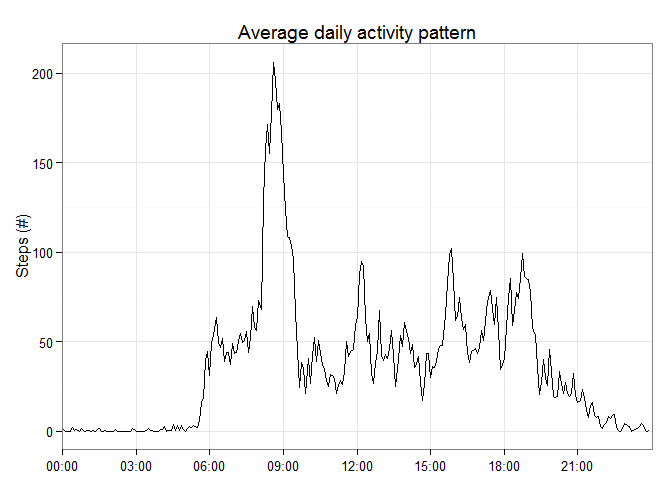
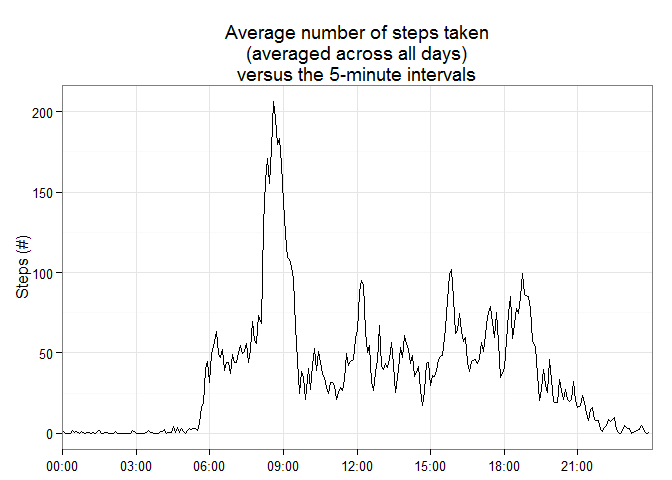
Modify caption for plots

diff --git a/PA1_template.html b/PA1_template.html
@@ -55,7 +55,7 @@ if (window.hljs && document.readyState && document.readyState === "complete") {
 
 <div id="reproducible-research-peer-assessment-1" class="section level1">
 <h1>Reproducible Research: Peer Assessment 1</h1>
-<p>By Renatas Narmontas<br />Generated: 2014-07-20 13:30:45<br />Version: R version 3.1.1 (2014-07-10)</p>
+<p>By Renatas Narmontas<br />Generated: 2014-07-20 19:21:20<br />Version: R version 3.1.1 (2014-07-10)</p>
 <div id="global-options" class="section level2">
 <h2>Global options</h2>
 <p>Loading required packages and setting global options.</p>
@@ -118,8 +118,12 @@ head(agg.data)</code></pre>
 <p><strong>Task</strong>:<br />For this part of the assignment, you can ignore the missing values in the dataset.<br />1. Make a histogram of the total number of steps taken each day<br />2. Calculate and report the mean and median total number of steps taken per day</p>
 <p><strong>Solution</strong>:</p>
 <p>Plotting histogram of the total number of steps taken each day. binwidth = every 1000 steps.</p>
-<pre class="r"><code>ggplot(agg.data, aes(x=steps)) + geom_histogram(binwidth=1000) + scale_y_discrete(breaks = seq(1,10)) + theme_bw()</code></pre>
[1 lines of base64/hex data omitted]
+<pre class="r"><code>ggplot(agg.data, aes(x=steps)) + 
+    geom_histogram(binwidth=1000) + 
+    scale_y_discrete(breaks = seq(1,10)) + 
+    ggtitle(&quot;The total number of steps taken each day&quot;) +
+    theme_bw()</code></pre>
[1 lines of base64/hex data omitted]
 <p>Calculating total mean and median of steps.</p>
 <pre class="r"><code>tot.step.mean &lt;- mean(agg.data$steps)
 tot.step.mean</code></pre>
@@ -148,18 +152,18 @@ head(duom2)</code></pre>
 ## 6   25 2.09434          5</code></pre>
 <pre class="r"><code>ggplot(duom2, aes(x=time.5.min, y=value)) + 
     geom_line(lwd=.5) + 
-    ggtitle(&quot;Average daily activity pattern&quot;) + 
+    ggtitle(&quot;Average number of steps taken\n(averaged across all days)\nversus the 5-minute intervals&quot;) + 
     ylab(&quot;Steps (#)&quot;) + 
     xlab(NULL) + 
     scale_x_discrete(
         breaks = seq(0,287,36), 
         labels=c(&quot;00:00&quot;,&quot;03:00&quot;,&quot;06:00&quot;,&quot;09:00&quot;,&quot;12:00&quot;,&quot;15:00&quot;,&quot;18:00&quot;,&quot;21:00&quot;)) + 
     theme_bw()</code></pre>
[2 lines of base64/hex data omitted]
 <pre class="r"><code>max.interval &lt;- duom2[duom2$value == max(duom2$value),]$Var1
 max.interval</code></pre>
 <pre><code>## [1] 835</code></pre>
-<p>Maximum average number of steps is interval between <strong>8:35</strong> and <strong>8:40</strong></p>
+<p>The 5-minute interval that, on average, contains the maximum number of steps is the interval between <strong>8:35</strong> and <strong>8:40</strong></p>
 </div>
 <div id="imputing-missing-values" class="section level2">
 <h2>Imputing missing values</h2>
@@ -169,7 +173,10 @@ max.interval</code></pre>
 row.count</code></pre>
 <pre><code>## [1] 2304</code></pre>
 <p>Total number of missing values in the dataset is <strong>2304</strong>.</p>
-<p>Filling in all of the missing values with the mean for that 5-minute interval.</p>
+<p>The strategy for imputting missing data:</p>
+<ul>
+<li>Change missing values (NAs) to the mean values for that 5-minute interval.</li>
+</ul>
 <pre class="r"><code>data.recovered &lt;- data
 for (i in 1:nrow(data.recovered)) {
     if (is.na(data.recovered$steps[i])) {
@@ -186,8 +193,12 @@ head(agg.data)</code></pre>
 ## 4 2012-10-04 12116
 ## 5 2012-10-05 13294
 ## 6 2012-10-06 15420</code></pre>
-<pre class="r"><code>ggplot(agg.data, aes(x=steps)) + geom_histogram(binwidth=1000) + scale_y_discrete(breaks = seq(1,20)) + theme_bw()</code></pre>
[1 lines of base64/hex data omitted]
+<pre class="r"><code>ggplot(agg.data, aes(x=steps)) + 
+    geom_histogram(binwidth=1000) + 
+    scale_y_discrete(breaks = seq(1,20)) + 
+    ggtitle(&quot;The total number of steps taken each day\nafter missing values were imputed&quot;) +
+    theme_bw()</code></pre>
[1 lines of base64/hex data omitted]
 <p>Calculating total mean and median of steps.</p>
 <pre class="r"><code>tot.step.mean &lt;- mean(agg.data$steps)
 tot.step.mean</code></pre>

diff --git a/PA1_template.md b/PA1_template.md
@@ -1,7 +1,7 @@
 # Reproducible Research: Peer Assessment 1
 
 By Renatas Narmontas  
-Generated: 2014-07-20 13:30:45  
+Generated: 2014-07-20 19:21:20  
 Version: R version 3.1.1 (2014-07-10)
 
 ## Global options
@@ -133,7 +133,11 @@ Plotting histogram of the total number of steps taken each day. binwidth = every
 
 
 ```r
-ggplot(agg.data, aes(x=steps)) + geom_histogram(binwidth=1000) + scale_y_discrete(breaks = seq(1,10)) + theme_bw()
+ggplot(agg.data, aes(x=steps)) + 
+    geom_histogram(binwidth=1000) + 
+    scale_y_discrete(breaks = seq(1,10)) + 
+    ggtitle("The total number of steps taken each day") +
+    theme_bw()
 ```
 
 ![plot of chunk ggplot.hist.total.number.1](figures/ggplot.hist.total.number.1.png) 
@@ -193,7 +197,7 @@ head(duom2)
 ```r
 ggplot(duom2, aes(x=time.5.min, y=value)) + 
     geom_line(lwd=.5) + 
-    ggtitle("Average daily activity pattern") + 
+    ggtitle("Average number of steps taken\n(averaged across all days)\nversus the 5-minute intervals") + 
     ylab("Steps (#)") + 
     xlab(NULL) + 
     scale_x_discrete(
@@ -213,7 +217,7 @@ max.interval
 ## [1] 835
 ```
 
-Maximum average number of steps is interval between **8:35** and **8:40**
+The 5-minute interval that, on average, contains the maximum number of steps is the interval between **8:35** and **8:40**
 
 ## Imputing missing values
 
@@ -237,7 +241,9 @@ row.count
 
 Total number of missing values in the dataset is **2304**.
 
-Filling in all of the missing values with the mean for that 5-minute interval.
+The strategy for imputting missing data:
+
+* Change missing values (NAs) to the mean values for that 5-minute interval.  
 
 
 ```r
@@ -268,7 +274,11 @@ head(agg.data)
 ```
 
 ```r
-ggplot(agg.data, aes(x=steps)) + geom_histogram(binwidth=1000) + scale_y_discrete(breaks = seq(1,20)) + theme_bw()
+ggplot(agg.data, aes(x=steps)) + 
+    geom_histogram(binwidth=1000) + 
+    scale_y_discrete(breaks = seq(1,20)) + 
+    ggtitle("The total number of steps taken each day\nafter missing values were imputed") +
+    theme_bw()
 ```
 
 ![plot of chunk ggplot.hist.total.number.2](figures/ggplot.hist.total.number.2.png) 
